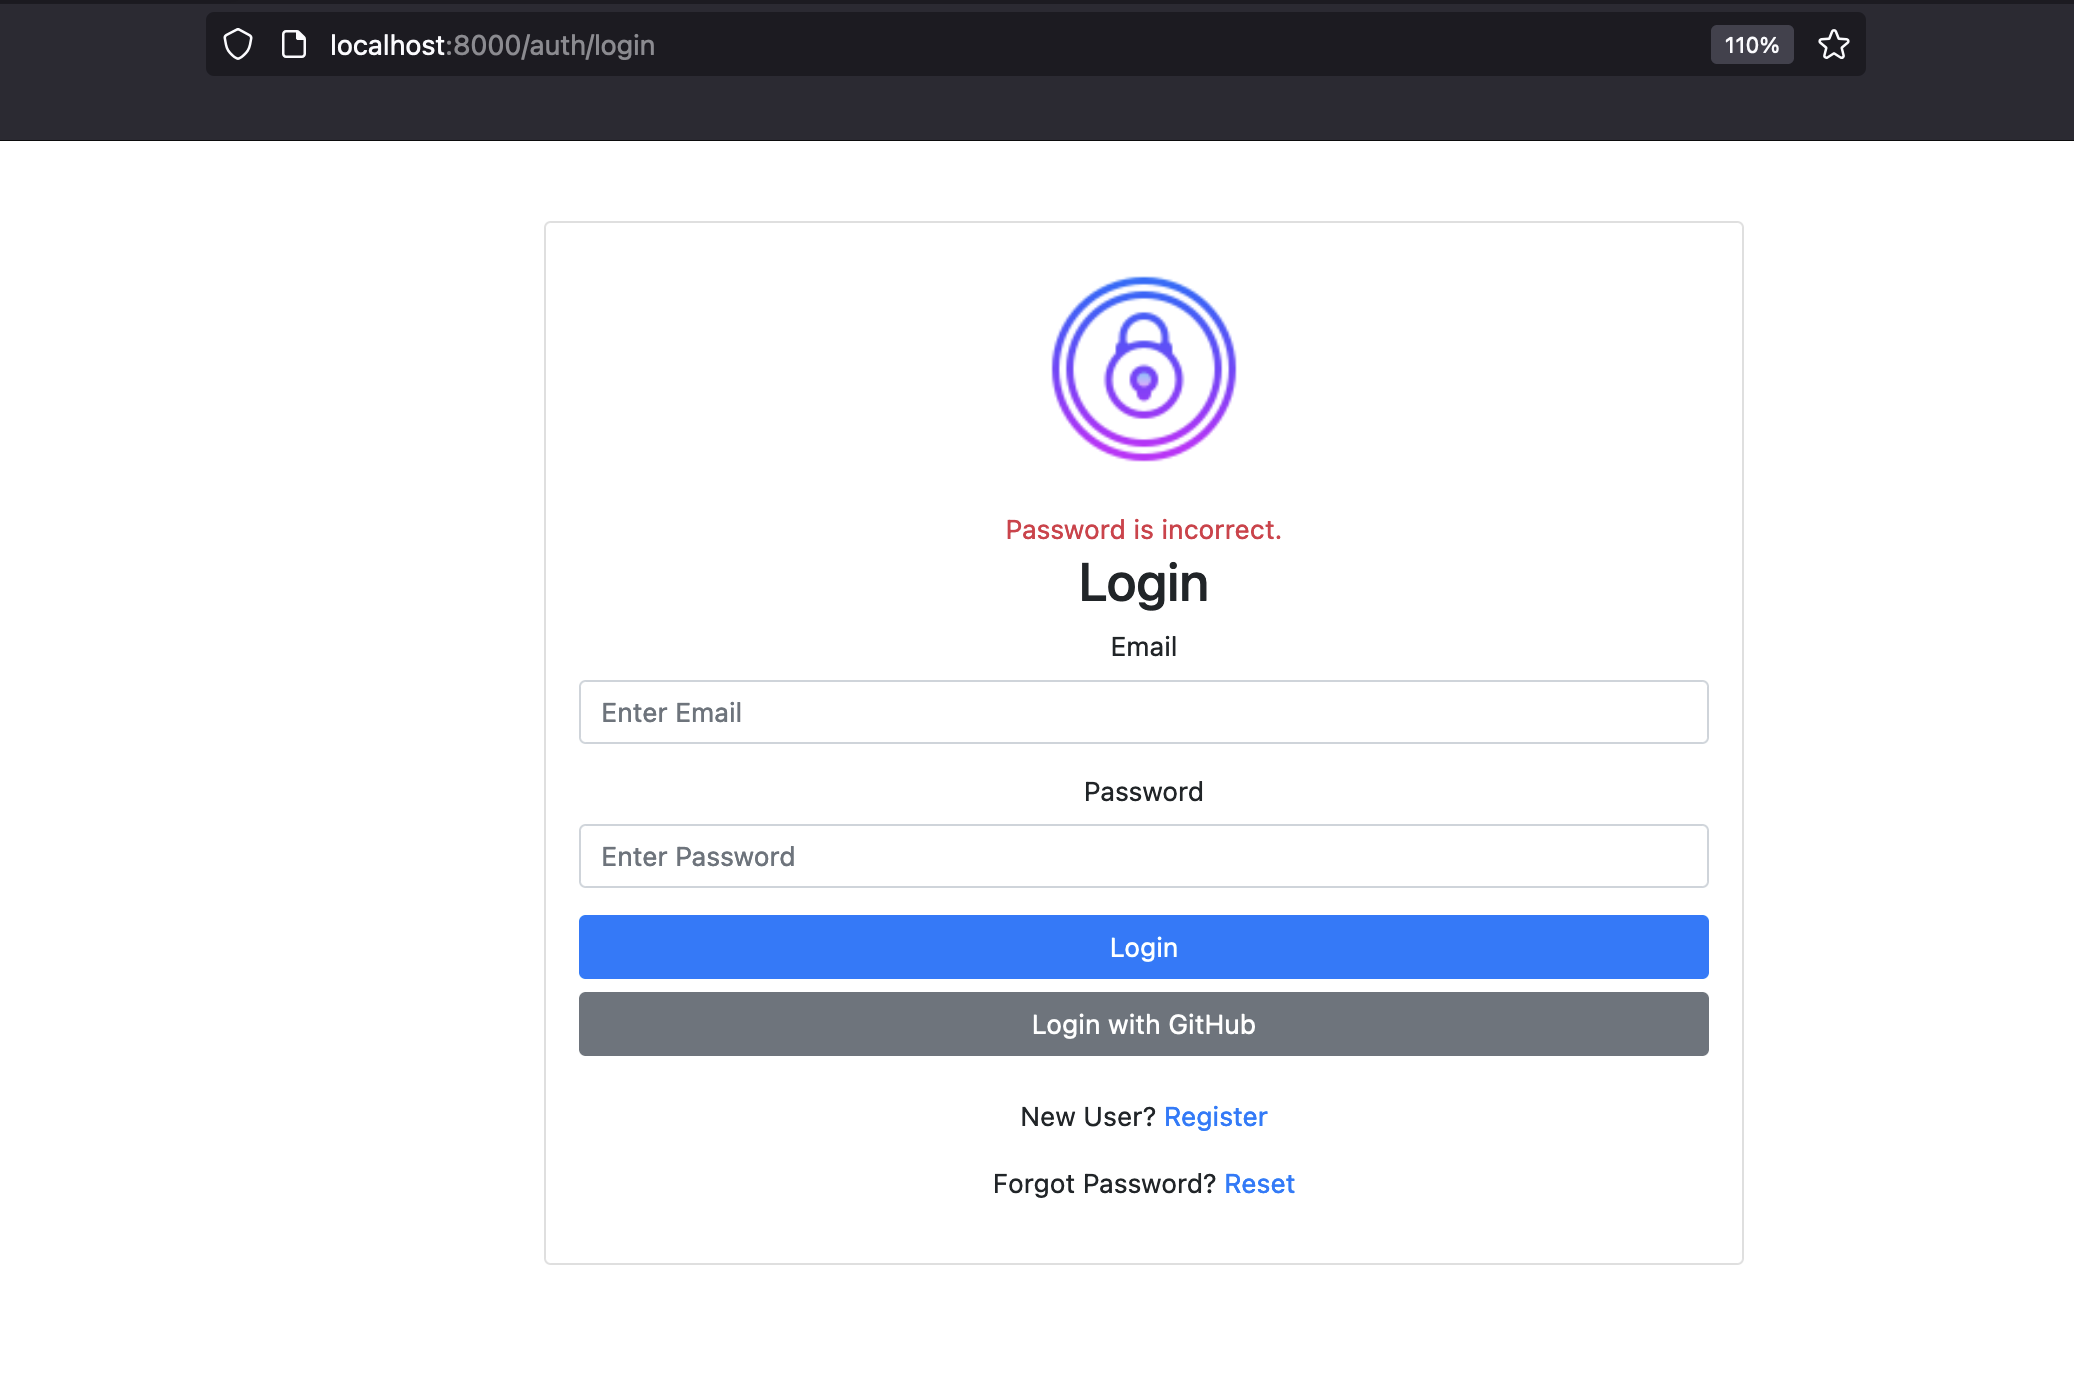
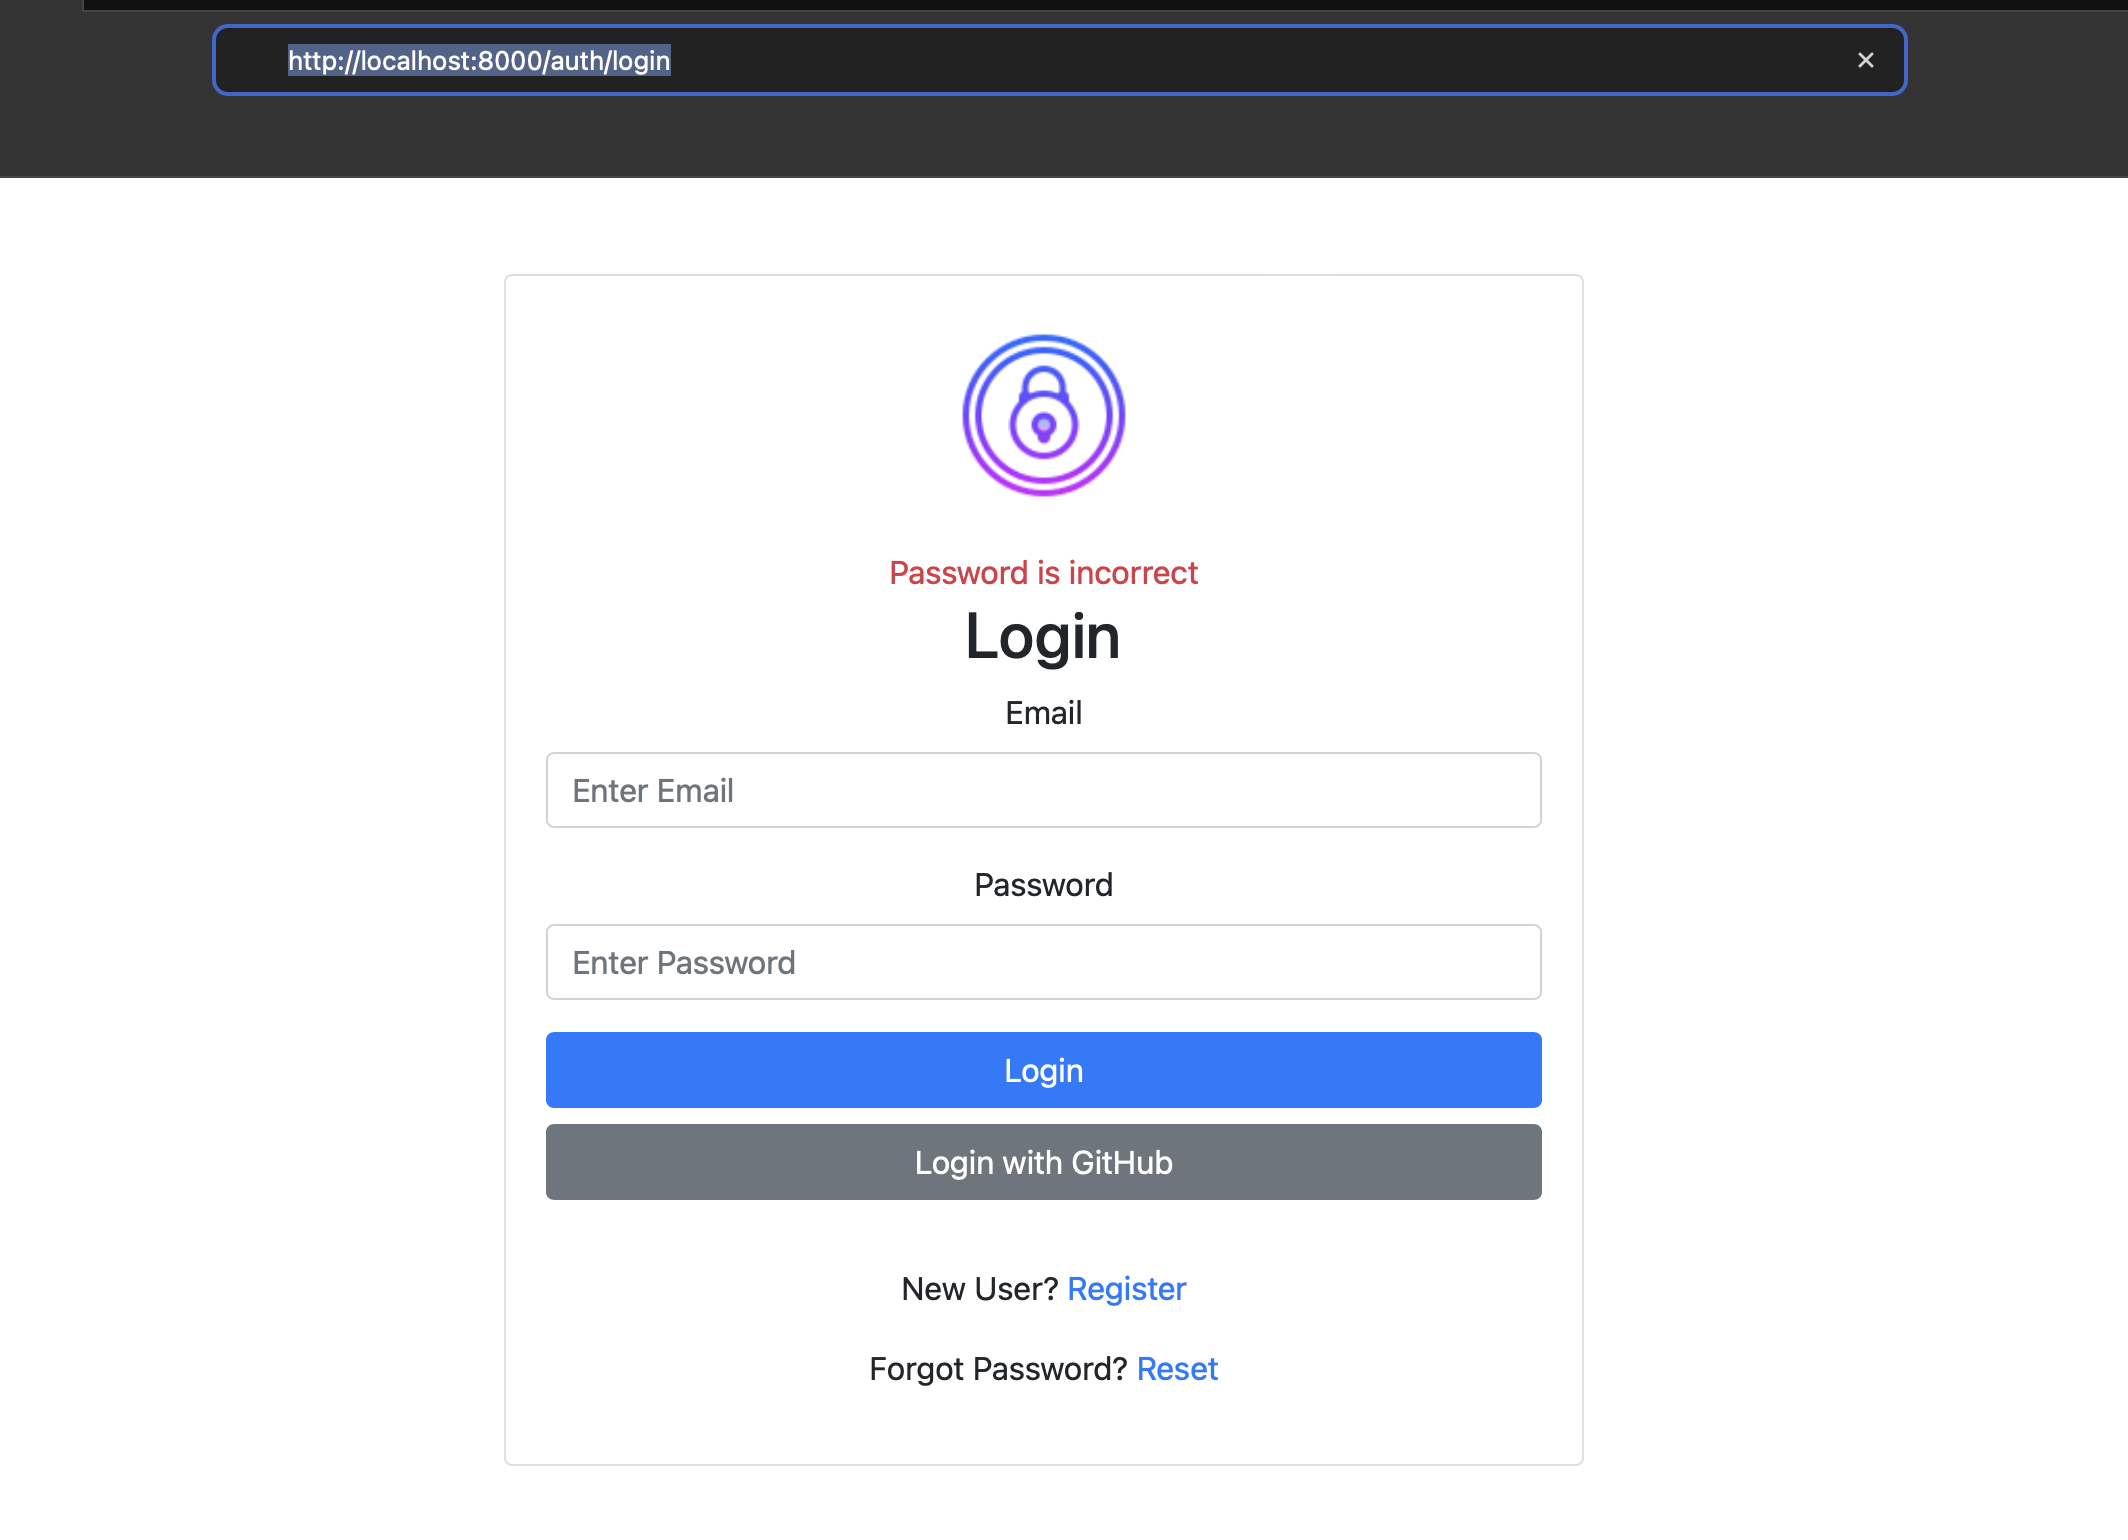
fixed error msg-es

diff --git a/routes/authRoute.ts b/routes/authRoute.ts
@@ -1,56 +1,65 @@
-import express, {Request, Response} from 'express'
-import passport from 'passport'
-import { forwardAuthenticated, isAdmin } from '../middleware/checkAuth'
-import { User } from "../models/userModel"
+import express, { Request, Response } from "express";
+import passport from "passport";
+import { forwardAuthenticated, isAdmin } from "../middleware/checkAuth";
+import { User } from "../models/userModel";
 import { IVerifyOptions } from "passport-local";
-import { getUserByEmailAndPassword } from '../controllers/userController';
-import flash from 'connect-flash';
+import { getUserByEmailAndPassword } from "../controllers/userController";
 
+const router = express.Router();
 
-const router = express.Router()
-router.use(flash());
-
-router.get("/login", forwardAuthenticated, (req,res)=>{
-   let errorMsg= req.flash('error');
-   res.render("login",{ messages: errorMsg } )
-})
+router.get("/login", forwardAuthenticated, (req, res) => {
+  const messages = (req.session as any).messages || [];
+  (req.session as any).messages = [];
+  res.render("login", { messages });
+});
 router.post("/login", (req, res, next) => {
-   passport.authenticate("local", {failureFlash: true, failureRedirect: "/auth/login"},(err:Error, user:Express.User, info:IVerifyOptions) => {
-      if (err) { return next(err); }
-         
-      if (!user) {          
-         req.flash('error', info.message);
-         return res.redirect("/auth/login"); }
-         req.logIn(user, (err) => {
-            if (err) { return next(err); }
-            if(isAdmin(req)){
-            return res.redirect('/admin')
-            } else {
-            return res.redirect("/dashboard");
-            }
-            
-         });
-   })(req, res, next);
+  passport.authenticate(
+    "local",
+    { failureRedirect: "auth/login", failureMessage: true },
+    (err: Error, user: Express.User, info: IVerifyOptions) => {
+      if (err) {
+        return next(err);
+      }
+
+      if (!user) {
+        (req.session as any).messages = info
+          ? [info.message]
+          : ["Login failed"];
+        return res.redirect("/auth/login");
+      }
+      req.logIn(user, (err) => {
+        if (err) {
+          return next(err);
+        }
+        if (isAdmin(req)) {
+          return res.redirect("/admin");
+        } else {
+          return res.redirect("/dashboard");
+        }
+      });
+    }
+  )(req, res, next);
 });
 
-router.get("/github", passport.authenticate("github"))
+router.get("/github", passport.authenticate("github"));
 
-router.get('/github/callback', 
-   passport.authenticate('github',{failureRedirect:"/auth/login"}),
+router.get(
+  "/github/callback",
+  passport.authenticate("github", { failureRedirect: "/auth/login" }),
 
-   function(req:Request,res: Response){
-      res.redirect('/dashboard')
-});
+  function (req: Request, res: Response) {
+    res.redirect("/dashboard");
+  }
+);
 
 router.get("/logout", (req, res) => {
-   req.logout((err) => { 
-       if (err) {
-           console.log(err); 
-           return res.redirect("/auth/login"); 
-       }
-       res.redirect("/auth/login"); 
-   });
+  req.logout((err) => {
+    if (err) {
+      console.log(err);
+      return res.redirect("/auth/login");
+    }
+    res.redirect("/auth/login");
+  });
 });
 
-
-export default router
+export default router;

diff --git a/dist/routes/authRoute.js b/dist/routes/authRoute.js
@@ -6,20 +6,21 @@ Object.defineProperty(exports, "__esModule", { value: true });
 const express_1 = __importDefault(require("express"));
 const passport_1 = __importDefault(require("passport"));
 const checkAuth_1 = require("../middleware/checkAuth");
-const connect_flash_1 = __importDefault(require("connect-flash"));
 const router = express_1.default.Router();
-router.use((0, connect_flash_1.default)());
 router.get("/login", checkAuth_1.forwardAuthenticated, (req, res) => {
-    let errorMsg = req.flash('error');
-    res.render("login", { messages: errorMsg });
+    const messages = req.session.messages || [];
+    req.session.messages = [];
+    res.render("login", { messages });
 });
 router.post("/login", (req, res, next) => {
-    passport_1.default.authenticate("local", { failureFlash: true, failureRedirect: "/auth/login" }, (err, user, info) => {
+    passport_1.default.authenticate("local", { failureRedirect: "auth/login", failureMessage: true }, (err, user, info) => {
         if (err) {
             return next(err);
         }
         if (!user) {
-            req.flash('error', info.message);
+            req.session.messages = info
+                ? [info.message]
+                : ["Login failed"];
             return res.redirect("/auth/login");
         }
         req.logIn(user, (err) => {
@@ -27,7 +28,7 @@ router.post("/login", (req, res, next) => {
                 return next(err);
             }
             if ((0, checkAuth_1.isAdmin)(req)) {
-                return res.redirect('/admin');
+                return res.redirect("/admin");
             }
             else {
                 return res.redirect("/dashboard");
@@ -36,8 +37,8 @@ router.post("/login", (req, res, next) => {
     })(req, res, next);
 });
 router.get("/github", passport_1.default.authenticate("github"));
-router.get('/github/callback', passport_1.default.authenticate('github', { failureRedirect: "/auth/login" }), function (req, res) {
-    res.redirect('/dashboard');
+router.get("/github/callback", passport_1.default.authenticate("github", { failureRedirect: "/auth/login" }), function (req, res) {
+    res.redirect("/dashboard");
 });
 router.get("/logout", (req, res) => {
     req.logout((err) => {

diff --git a/dist/server.js b/dist/server.js
@@ -32,15 +32,15 @@ app.use(express_1.default.json());
 app.use(express_ejs_layouts_1.default);
 app.use(express_1.default.urlencoded({ extended: true }));
 (0, passportMiddleware_1.default)(app);
-app.use((req, res, next) => {
-    console.log(`User details are: `);
-    console.log(req.user);
-    console.log("Entire session object:");
-    console.log(req.session);
-    console.log(`Session details are: `);
-    console.log(req.session.passport);
-    next();
-});
+// app.use((req, res, next) => {
+//   console.log(`User details are: `);
+//   console.log(req.user);
+//   console.log("Entire session object:");
+//   console.log(req.session);
+//   console.log(`Session details are: `);
+//   console.log((req.session as any).passport);
+//   next();
+// });
 app.use("/", indexRoute_1.default);
 app.use("/auth", authRoute_1.default);
 app.listen(port, () => {

diff --git a/server.ts b/server.ts
@@ -48,17 +48,17 @@ app.use(express.urlencoded({ extended: true }));
 passportMiddleware(app);
 
 
-app.use((req, res, next) => {
-  console.log(`User details are: `);
-  console.log(req.user);
+// app.use((req, res, next) => {
+//   console.log(`User details are: `);
+//   console.log(req.user);
 
-  console.log("Entire session object:");
-  console.log(req.session);
+//   console.log("Entire session object:");
+//   console.log(req.session);
 
-  console.log(`Session details are: `);
-  console.log((req.session as any).passport);
-  next();
-});
+//   console.log(`Session details are: `);
+//   console.log((req.session as any).passport);
+//   next();
+// });
 
 app.use("/", indexRoute);
 app.use("/auth", authRoute);

diff --git a/middleware/passportStrategies/localStrategy.ts b/middleware/passportStrategies/localStrategy.ts
@@ -15,7 +15,7 @@ const localStrategy = new LocalStrategy({
       return done(null, false, { message: `Couldn't find user with email: ${email}` });
    } 
    if (!isUserValid(user,password)){
-      return done(null, false, { message: "Password is incorrect." });
+      return done(null, false, { message: "Password is incorrect" });
    }
    return done(null,user)
 }
@@ -25,7 +25,7 @@ passport.serializeUser(function (user:Express.User,done: (err: any, id?: number)
 })
 
 passport.deserializeUser(function(id:number,done: (err: any, user?: Express.User | false | null) => void){
-   let user:Express.User = getUserById(id)
+   let user = getUserById(id)
    if (user){
       done(null,user)
    } else {

diff --git a/dist/middleware/passportStrategies/localStrategy.js b/dist/middleware/passportStrategies/localStrategy.js
@@ -15,7 +15,7 @@ const localStrategy = new passport_local_1.Strategy({
         return done(null, false, { message: `Couldn't find user with email: ${email}` });
     }
     if (!(0, userController_1.isUserValid)(user, password)) {
-        return done(null, false, { message: "Password is incorrect." });
+        return done(null, false, { message: "Password is incorrect" });
     }
     return done(null, user);
 });

diff --git a/dist/routes/indexRoute.js b/dist/routes/indexRoute.js
@@ -21,6 +21,7 @@ console.log(`sessionDir: `, sessionsDir);
 const fs_1 = __importDefault(require("fs"));
 const router = express_1.default.Router();
 router.get("/", (req, res) => {
+    console.log(`route / got triggered`);
     res.send("Welcome HomePage");
 });
 router.get("/dashboard", checkAuth_1.ensureAuthenticated, (req, res) => {

diff --git a/dist/models/userModel.js b/dist/models/userModel.js
@@ -25,9 +25,9 @@ const database = [
     },
     {
         id: 4,
-        name: "Jess Stevenson",
-        email: "jessstevenson@gmail.com",
-        password: "jessstevenson",
+        name: "Jess Stephenson",
+        email: "jessstephenson@gmail.com",
+        password: "jessstephenson",
         role: "admin"
     }
 ];

diff --git a/models/userModel.ts b/models/userModel.ts
@@ -30,9 +30,9 @@ const database:Express.User[] = [
    },
    {
       id:4,
-      name:"Jess Stevenson",
-      email:"jessstevenson@gmail.com",
-      password:"jessstevenson",
+      name:"Jess Stephenson",
+      email:"jessstephenson@gmail.com",
+      password:"jessstephenson",
       role:"admin"
    }
  ];

diff --git a/routes/indexRoute.ts b/routes/indexRoute.ts
@@ -10,6 +10,7 @@ import fs  from 'fs'
 const router = express.Router()
 
 router.get("/",(req,res)=>{
+   console.log(`route / got triggered`)
    res.send("Welcome HomePage")
 })
 router.get("/dashboard", ensureAuthenticated, (req,res)=>{

diff --git a/README.md b/README.md
@@ -1,7 +1,7 @@
 ## Intro. to Node.js Auth App with Passport.js
 ### 0. Error Messages
 
-![emaildoesnotexist](public/emaildoesnotexist.png)
+![emaildoesnotexist](public/emailerror.png)
 
 <hr/>
 
@@ -21,4 +21,3 @@
 
 <hr/>
 
-[Submission Link](https://changeable-poultry-d55.notion.site/Passport-Assignment-12800455b75680a6a52bebf5f08b4d3a)
